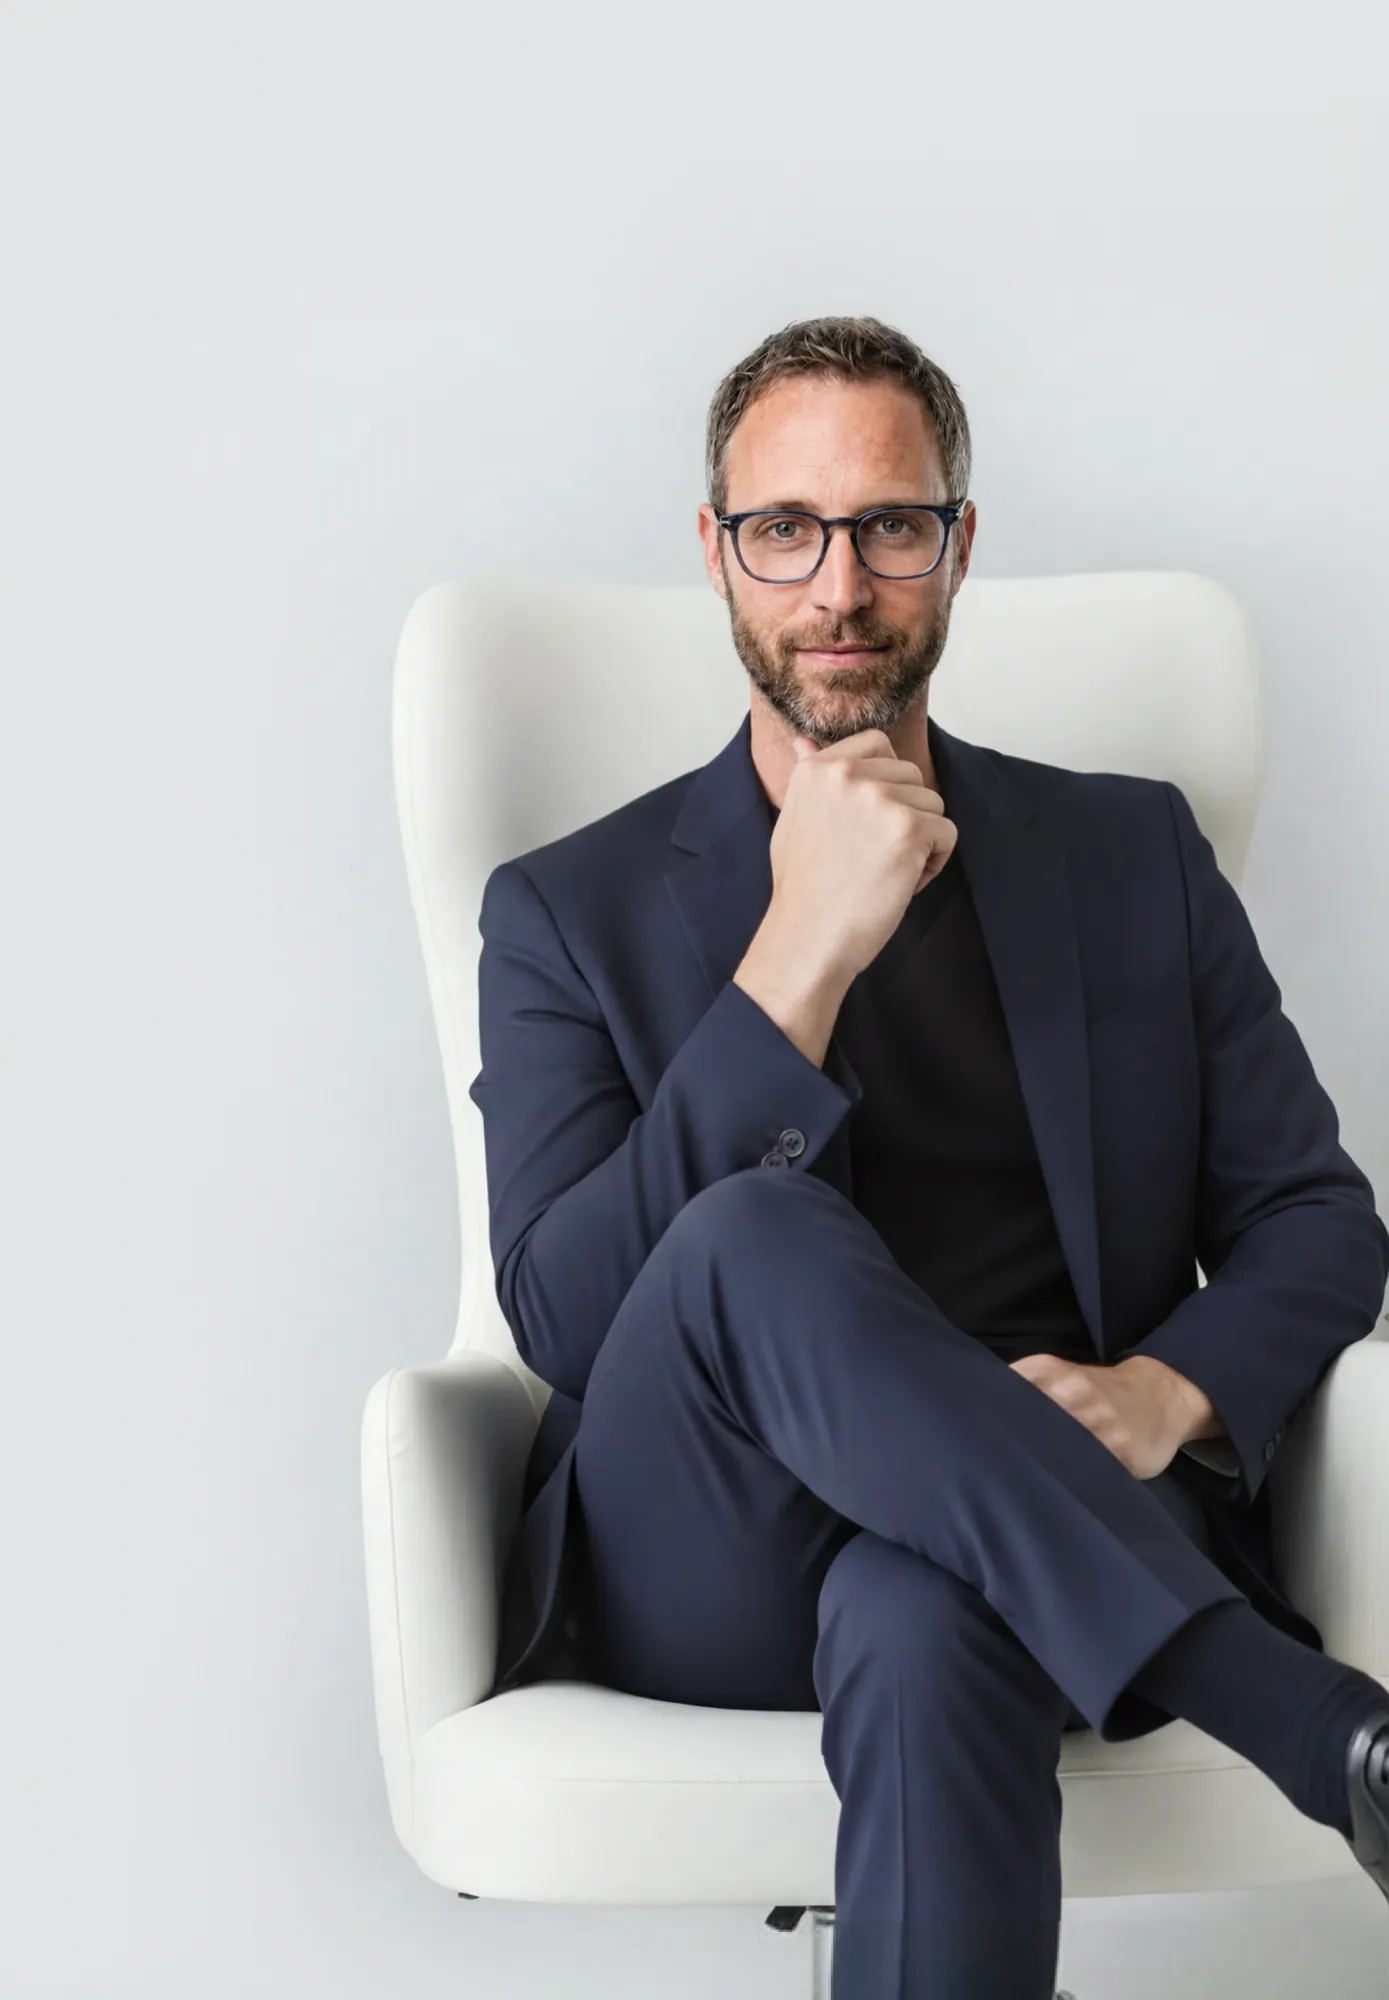
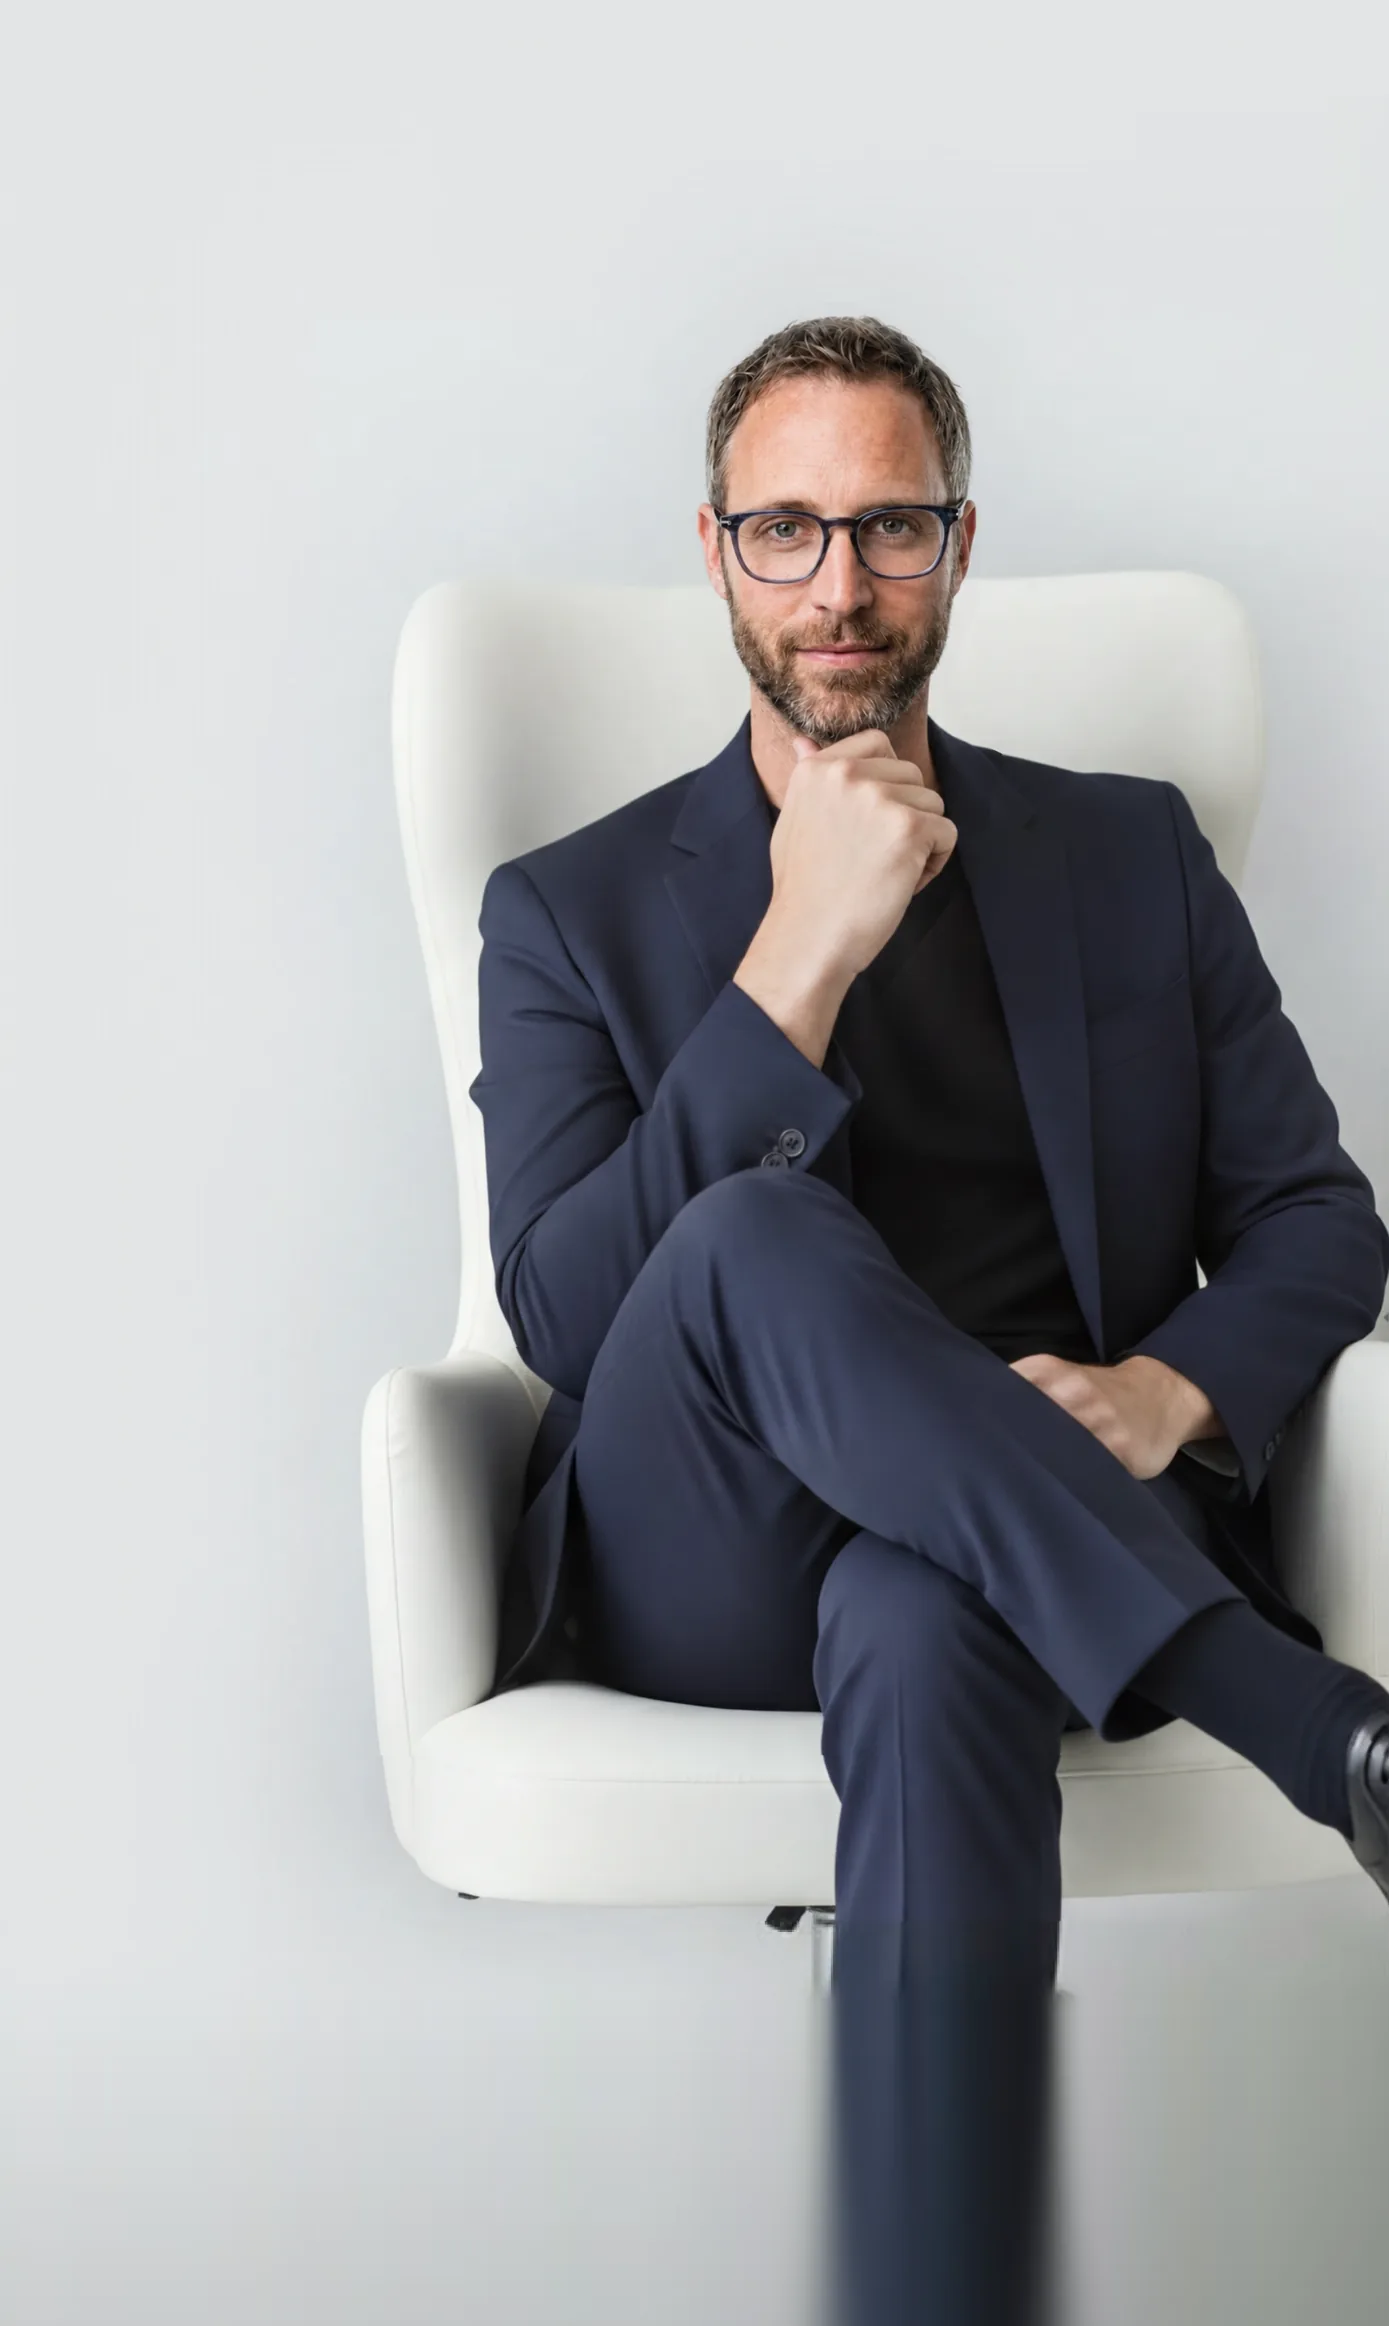
Extend the portrait downward, without a model
The cut was eating his feet. Sinking the photo far enough to hide its
cropped bottom edge cost 6 to 10% of the figure at every width, and the
only fix the spec offers is a generative expand done by hand.

It did not need one. Everything at the bottom edge of this photograph runs
VERTICALLY — the trouser leg, the chair base, the chrome foot, the flat
backdrop — and a vertical continuation of vertical structure is the one
case where clamping the edge reads as real rather than as a smear. 326
rows added to 2000, in three passes: seeded from the mean of the last
sixteen rows so sensor noise does not become a permanent line, dissolved
with a blur that widens with depth so detail becomes tone, and darkened
10% toward the bottom the way a floor falls away from a light that is
above and in front.

None of it is ever meant to be seen. --portrait-crop still means exactly
what it meant before — the height HE is drawn at — so his size and
position do not move; the extension hangs below the first screen and is
what the diagonal eats instead of his shoes. His feet are visible now
where they were cropped flat.

One property reverts all of it: --portrait-extra to 0, with the old
artwork back in assets/.

The sink has to be computed from the height actually drawn, which is not
the same number on a phone. First attempt overrode --portrait-height on
.hero:before, and a custom property resolves against the element it is
DECLARED on — so the override changed what was painted without changing
[…]

diff --git a/css/index.css b/css/index.css
@@ -1,8 +1,8 @@
 /* Import base styles and variables from common.css and others */
-@import "./common.css?v=9723fea2";
-@import "./chat-input.css?v=5d7d38c8";
-@import "./chat-content.css?v=3afb438e";
-@import "./more.css?v=874870af";
+@import "./common.css?v=89701a7d";
+@import "./chat-input.css?v=2d178a39";
+@import "./chat-content.css?v=6d523796";
+@import "./more.css?v=6209f3fe";
 
 /* 
  * =====================================================
@@ -82,7 +82,7 @@
    * bottom seats him on the floor, which is where 70% effectively had him. */
   /* `right bottom` of a box that now extends past the fold — see the height
      above. See --portrait-sink in common.css for why it extends. */
-  background: url("../assets/background.webp") no-repeat right bottom / auto var(--portrait-crop) scroll;
+  background: url("../assets/background.webp") no-repeat right bottom / auto var(--portrait-height) scroll;
 }
 
 /*
@@ -126,6 +126,18 @@
  * them would give a band of widths with half of it applied.
  */
 @media only screen and (max-width: 900px) {
+  /* On :root, not on .hero:before.
+     
+     --portrait-sink is declared on :root and computed FROM this, and a
+     custom property resolves against the element it is declared on — so
+     overriding the height down on the pseudo-element changed what was
+     drawn without changing what was sunk. Measured: 3 to 4px of the
+     generated strip sitting above the fold at 375, 390 and 768, and none
+     at all at 1280 where the two formulas happen to agree. */
+  :root {
+    --portrait-height: calc((100dvh - var(--portrait-top)) * (1 + var(--portrait-extra)));
+  }
+
   .hero:before {
     /* Bottom right of the SCREEN. The band I had here before — inset above
        the input furniture — stopped the overlap by lifting him off the
@@ -136,7 +148,7 @@
        taller. His head therefore clears them, and the chips and the bar
        pass over his legs the way the glass was always meant to. */
     background-position: right bottom;
-    background-size: auto calc(100dvh - var(--portrait-top));
+    background-size: auto var(--portrait-height);
   }
 }
 

diff --git a/css/common.css b/css/common.css
@@ -96,7 +96,27 @@
      downward by 350px, and the extra content — leg, chair base, floor,
      shadow — is what should be hidden under the cut instead of 6-10% of the
      figure. When that asset lands, set this back to 0. */
-  --portrait-sink: 48px;
+  /* The height the artwork is actually drawn at, extension included.
+     Everything else derives from this one value, because the phone
+     overrides it (css/index.css) and a sink computed from a different
+     number than the one on screen is wrong by exactly the difference. */
+  --portrait-height: calc(var(--portrait-crop) * (1 + var(--portrait-extra)));
+
+  /* The displayed height of the added strip: height x extra / (1 + extra).
+     Sinking the artwork by exactly this puts the whole extension below the
+     first screen and leaves the photograph itself ending at the fold. */
+  --portrait-sink: calc(var(--portrait-height) * var(--portrait-extra) / (1 + var(--portrait-extra)));
+
+  /* How much taller the artwork is than the framing --portrait-crop
+     describes: 326 rows added to 2000, continuing the floor, the chair
+     base and the trouser leg below where the photograph was cropped.
+     
+     --portrait-crop still means what it always meant — the height HE is
+     drawn at — so his size and position do not move. The extra hangs below
+     the first screen and is what the cut eats, instead of his feet. Set
+     this to 0 and put the unextended artwork back and everything returns
+     to where it was. */
+  --portrait-extra: 0.163;
 
   /* -------------------- Filters -------------------- */
   --icon-filter: invert(0);  /* Icon color filter (0 = no inversion for light mode) */

diff --git a/css/more.css b/css/more.css
@@ -428,9 +428,6 @@ body:not([chat-started]) .quick-link[href$="#more"] {
  * =====================================================
  */
 @media only screen and (max-width: 767px) {
-  /* The cut is shallower here but the photo is proportionally much wider,
-     so it reaches deeper into the slope: 55px at 375 against 35 at 1280. */
-  :root { --portrait-sink: 56px; }
 
   .more {
     clip-path: polygon(0 var(--cut-mobile), 100% 0, 100% 100%, 0 100%);

diff --git a/index.html b/index.html
@@ -43,7 +43,7 @@
     <link href="assets/favicon.png" rel="icon" type="image/png">
 
     <!-- Other links, like styles -->
-    <link href="css/index.css?v=82189668" rel="stylesheet" type="text/css">
+    <link href="css/index.css?v=f29de4c8" rel="stylesheet" type="text/css">
 
     <!-- Page script -->
     <script src="scripts/index.js?v=125f22c7" type="module" defer></script>

diff --git a/css/chat-input.css b/css/chat-input.css
@@ -1,5 +1,5 @@
 /* Import base styles and variables from common.css */
-@import "./common.css?v=9723fea2";
+@import "./common.css?v=89701a7d";
 
 /* 
  * =====================================================

diff --git a/css/chat-content.css b/css/chat-content.css
@@ -1,5 +1,5 @@
 /* Import base styles and variables from common.css */
-@import "./common.css?v=9723fea2";
+@import "./common.css?v=89701a7d";
 @import "./thinking-loader.css?v=b8e27d2d";
 
 /* 
